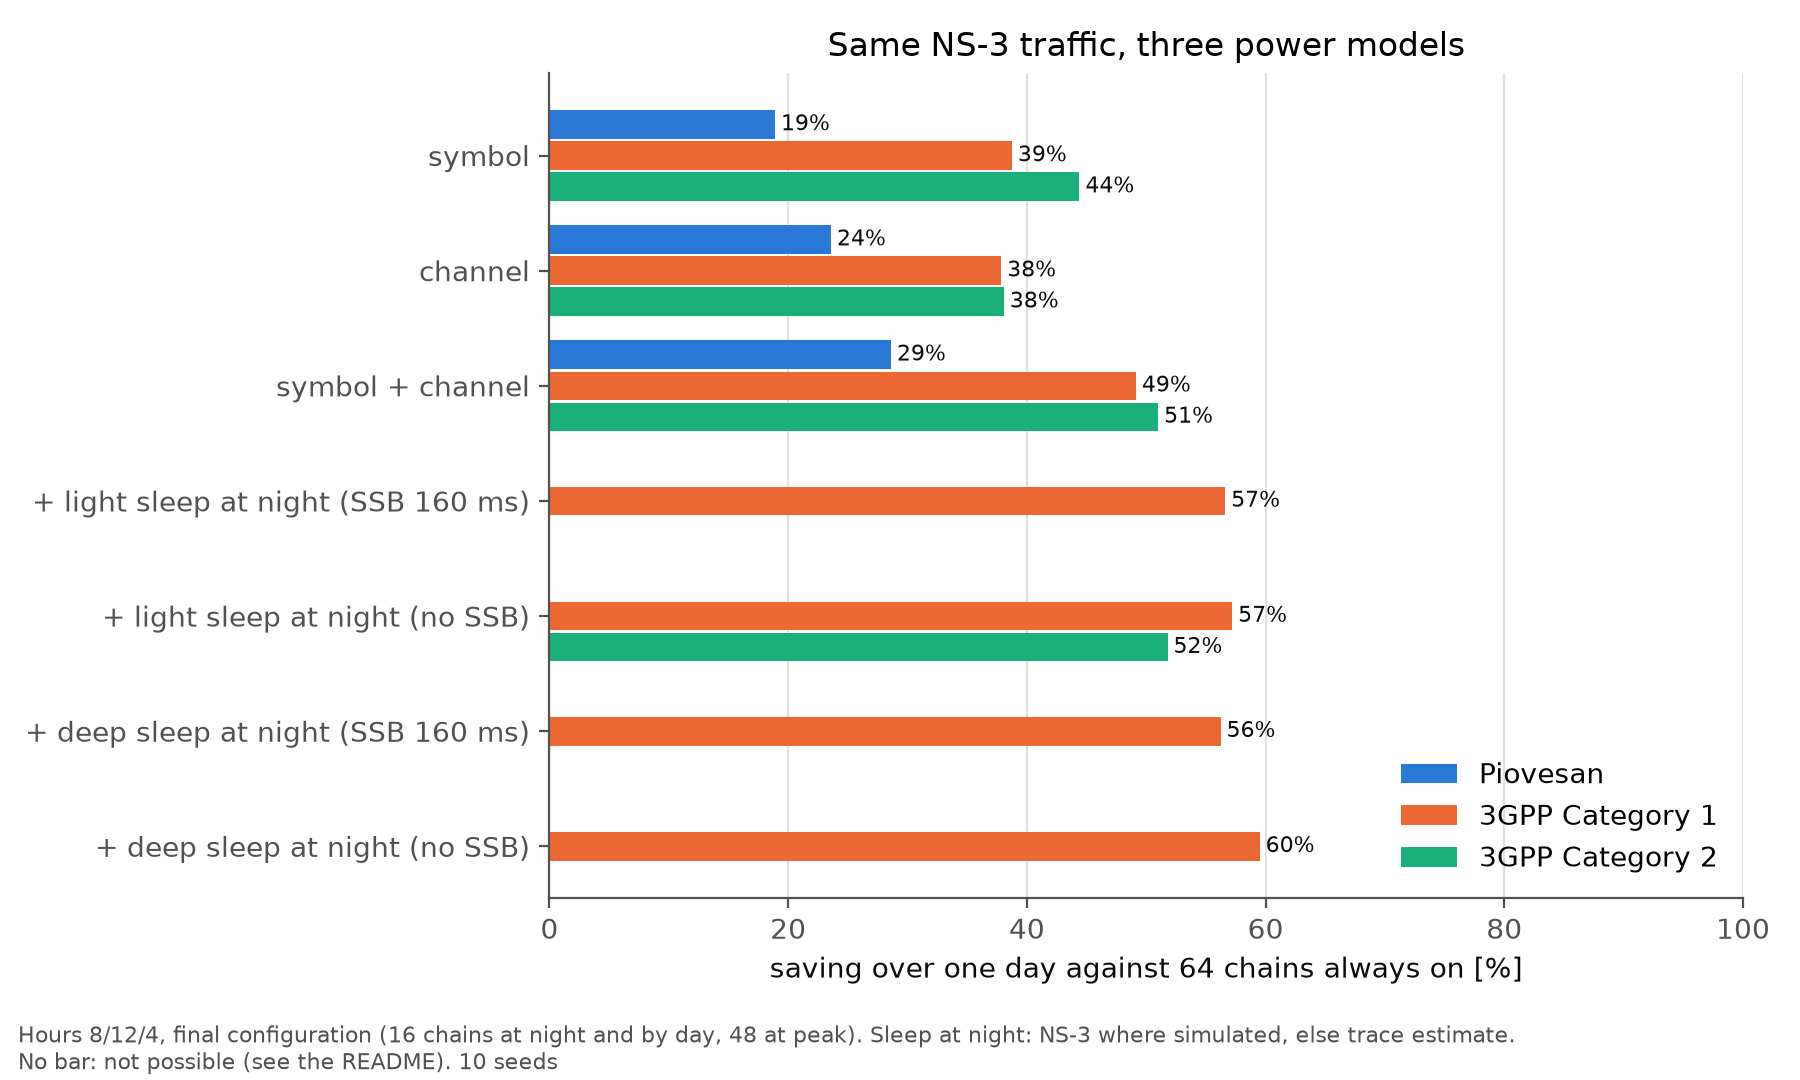
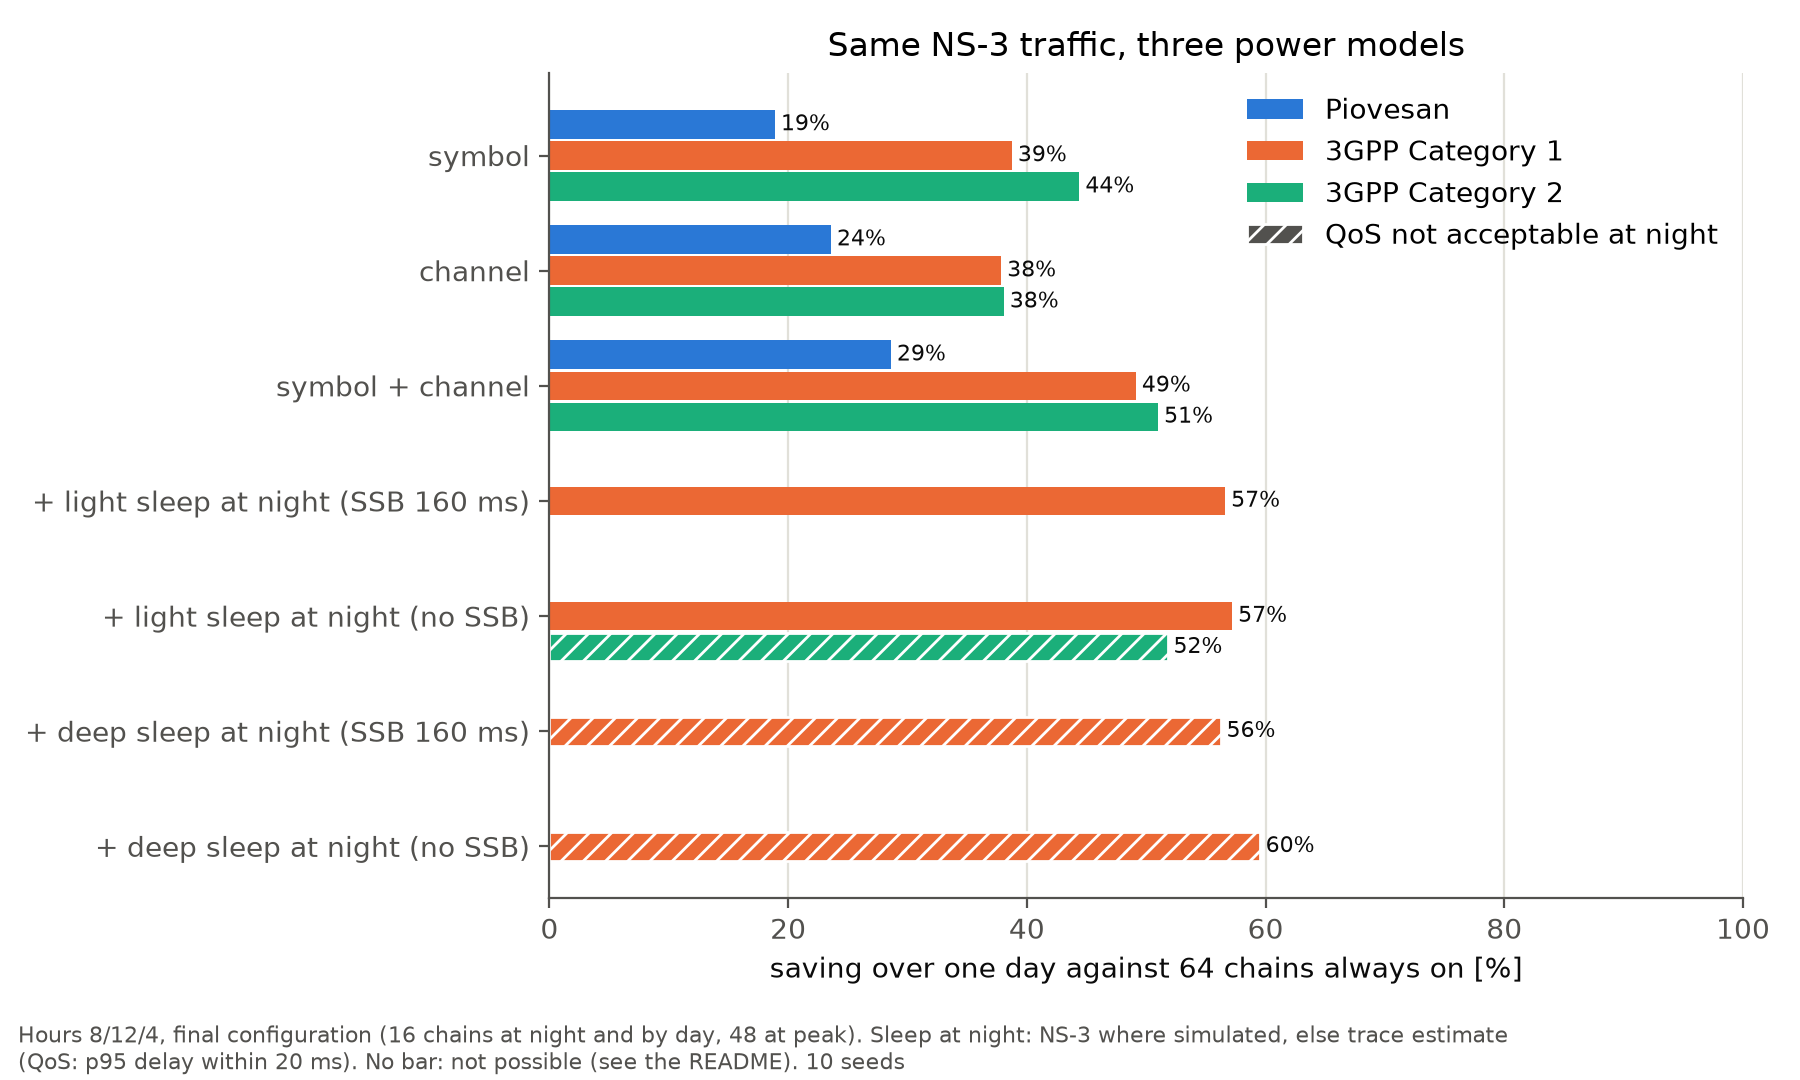
Flag sleeps that break the night QoS, plot the chosen rule and declare the 3GPP scaling
- final_models.png hatches the sleeps whose night QoS fails (deep sleep in Category 1,
  light sleep in Category 2); the README no longer quotes their 60% as a plain saving.
- policy_day figures show the rule the README picks (every 5 min, margin 50%).
- lib/power.py declares sp and eta of the 3GPP downlink scaling (both 1, as before).
- README and STEPS: 32 chains carry more than 24 when the neighbours are twice as loaded.
- run_campaign.sh writes to bs-results-main by default instead of the old bs-results-seg.

diff --git a/analysis/studies/final.py b/analysis/studies/final.py
@@ -23,7 +23,7 @@ import pandas as pd
 from lib import campaign, ns3data, paths, power
 from lib.style import AQUA, BLUE, INK, MUTED, ORANGE, save
 from studies.daily import half_ci
-from studies.threegpp import ns3_sleeps, sleep_level, slot_power, symbol_table, trace_sleeps
+from studies.threegpp import night_sleep_qos_ok, ns3_sleeps, sleep_level, slot_power, symbol_table, trace_sleeps
 
 RAW = paths.RAW / "bs-results-indep"
 FACTORS = {"x0.5": 0.5, "x1": 1, "x2": 2}          # folder -> neighbour load / load of cell 0
@@ -200,7 +200,8 @@ def day_3gpp():
     """3GPP Category 1 and 2, one day on the final configuration: symbol, symbol + channel (48 chains at peak) and
     light or deep sleep at night on top (NS-3 where simulated, else the trace estimate, from studies.threegpp: their
     nights have neighbours at 64 chains, which at 1 Mbit/s makes no difference; the returned check is the largest
-    difference between the earlier and the final night with 16 chains)."""
+    difference between the earlier and the final night with 16 chains). qos_ok: the settings without sleep are those
+    with acceptable QoS at every level; a sleep is judged on the night by studies.threegpp.night_sleep_qos_ok."""
     traced, simulated, earlier = trace_sleeps(), ns3_sleeps(), symbol_table()
     rows = []
     for cat in (1, 2):
@@ -212,14 +213,17 @@ def day_3gpp():
                     "channel": {"night": tgpp_level("night", 16, False, cat), "day": tgpp_level("day", 16, False, cat),
                                 "peak": tgpp_level("peak", 48, False, cat)},
                     "symbol + channel": best}
+        qos_ok = dict.fromkeys(policies, True)
         for name, ssb in (("+ light sleep at night", "SSB 160 ms"), ("+ light sleep at night", "no SSB"),
                           ("+ deep sleep at night", "SSB 160 ms"), ("+ deep sleep at night", "no SSB")):
-            night = sleep_level(cat, "night", name.split()[1], ssb, traced, simulated)
+            state = name.split()[1]                             # "light" or "deep"
+            night = sleep_level(cat, "night", state, ssb, traced, simulated)
             if len(night):
                 policies[f"{name} ({ssb})"] = dict(best, night=night)
+                qos_ok[f"{name} ({ssb})"] = night_sleep_qos_ok(cat, state, ssb, traced, simulated)
         for name, levels in policies.items():
             saving = 100 * (1 - sum(h * levels[level] for level, h in HOURS.items()) / always_on)
-            rows.append(dict(cat=cat, policy=name, saving=saving.mean(), ci=half_ci(saving)))
+            rows.append(dict(cat=cat, policy=name, saving=saving.mean(), ci=half_ci(saving), qos_ok=qos_ok[name]))
     night_earlier = earlier[(earlier.cat == 1) & (earlier.profile == "night") & (earlier.chains == 16)
                             & earlier.symbol].sort_values("seed").rel.to_numpy()
     check = np.abs(night_earlier - tgpp_level("night", 16, True, 1)).max()
@@ -296,10 +300,11 @@ def day_models(days_3gpp):
         energy = sum(h * piovesan_watts(level, CHAINS_BY_LEVEL[level] if "channel" in policy else 64, "symbol" in policy)
                      for level, h in HOURS.items())
         saving = 100 * (1 - energy / always_on)
-        rows.append(dict(model="Piovesan", policy=policy, saving=saving.mean(), ci=half_ci(saving)))
+        rows.append(dict(model="Piovesan", policy=policy, saving=saving.mean(), ci=half_ci(saving), qos_ok=True))
     names = {1: "3GPP Category 1", 2: "3GPP Category 2"}
     for _, row in days_3gpp[days_3gpp.policy != "always on"].iterrows():
-        rows.append(dict(model=names[row["cat"]], policy=row["policy"], saving=row["saving"], ci=row["ci"]))
+        rows.append(dict(model=names[row["cat"]], policy=row["policy"], saving=row["saving"], ci=row["ci"],
+                         qos_ok=row["qos_ok"]))
     return pd.DataFrame(rows)
 
 
@@ -307,16 +312,22 @@ MODEL_STYLE = {"Piovesan": BLUE, "3GPP Category 1": ORANGE, "3GPP Category 2": A
 
 
 def plot_models(models):
-    """Saving of one day, Piovesan and 3GPP, one group of bars per policy; no bar: the model cannot express it."""
+    """Saving of one day, Piovesan and 3GPP, one group of bars per policy; no bar: the model cannot express it;
+    hatched: the night QoS is not acceptable."""
     policies = list(dict.fromkeys(models.policy))
     order = ["symbol", "channel", "symbol + channel"] + [p for p in policies if p.startswith("+")]
     fig, ax = plt.subplots(figsize=(9, 5.4))
     y = np.arange(len(order))
     width = .27
     for k, (model, color) in enumerate(MODEL_STYLE.items()):
-        values = [models[(models.model == model) & (models.policy == p)].saving.mean() for p in order]
+        rows = [models[(models.model == model) & (models.policy == p)] for p in order]
+        values = [row.saving.mean() for row in rows]
         offset = y + (k - 1) * width
-        ax.barh(offset, values, width * .92, color=color, label=model)
+        bars = ax.barh(offset, values, width * .92, color=color, label=model)
+        for bar, row in zip(bars, rows):
+            if len(row) and not row.qos_ok.all():
+                bar.set_hatch("///")
+                bar.set_edgecolor("white")
         for yi, v in zip(offset, values):
             if np.isfinite(v):
                 ax.text(v + .5, yi, f"{v:.0f}%", va="center", fontsize=8, color=INK)
@@ -324,10 +335,13 @@ def plot_models(models):
            title="Same NS-3 traffic, three power models")
     ax.invert_yaxis()
     ax.grid(axis="y", visible=False)
-    ax.legend(frameon=False, loc="lower right")
+    handles, labels = ax.get_legend_handles_labels()
+    handles.append(plt.Rectangle((0, 0), 1, 1, facecolor=MUTED, hatch="///", edgecolor="white"))
+    labels.append("QoS not acceptable at night")
+    ax.legend(handles, labels, frameon=False, loc="upper right")
     save(fig, "final_models.png", "Hours 8/12/4, final configuration (16 chains at night and by day, 48 at peak). "
-                                  "Sleep at night: NS-3 where simulated, else trace estimate.\n"
-                                  "No bar: not possible (see the README). 10 seeds")
+                                  "Sleep at night: NS-3 where simulated, else trace estimate\n"
+                                  "(QoS: p95 delay within 20 ms). No bar: not possible (see the README). 10 seeds")
 
 
 def plot_day(day, days_3gpp):

diff --git a/analysis/lib/power.py b/analysis/lib/power.py
@@ -95,17 +95,24 @@ TGPP = {1: dict(deep=1, light=25, micro=55, dl=280, ul=110, t_light=6, t_deep=50
 TGPP_A = 0.4          # share of the dynamic downlink power that scales with the active RUs
 TGPP_RB_REF = 273     # resource blocks of the 100 MHz reference carrier at 30 kHz
 TGPP_EXTRA_CC = 0.7   # each additional contiguous carrier costs 0.7 of the first
+# ASSUMPTIONS of the downlink scaling (clause 5.1): sf = resource blocks in use / 273 (per symbol), and
+TGPP_SP = 1.0         # sp: power spectral density per RU against the reference. 1 = as Set 1; scaled to our AAU
+                      # (104.9 W over 60 MHz against 55 dBm over 100 MHz, 64 RUs in both) it would be about 0.55.
+TGPP_ETA = 1.0        # eta: PA efficiency factor. The report lets each study use one value (eta = 1 for any sf, sp)
+                      # or two (eta = 0.76 when sf * sp < 0.5, else 1). With 30 MHz carriers sf * sp is always below
+                      # 0.5, so the two-value choice would raise the load-dependent PA power by 1 / 0.76.
 
 
 def tgpp_dl_symbol(rb, active_ru=1.0, cat=1):
     """Power of one downlink symbol of one carrier with rb resource blocks in use.
 
-    P = micro + active_ru * A * (dl - micro) + rb / 273 * (1 - A) * (dl - micro):
+    P = micro + active_ru * A * (dl - micro) + rb / 273 * sp / eta * (1 - A) * (dl - micro):
     part of the power grows with the active radio units, part with the resource blocks in use.
     """
     p = TGPP[cat]
     dyn = p["dl"] - p["micro"]
-    return p["micro"] + active_ru * TGPP_A * dyn + np.asarray(rb, float) / TGPP_RB_REF * (1 - TGPP_A) * dyn
+    load = np.asarray(rb, float) / TGPP_RB_REF * TGPP_SP / TGPP_ETA      # sf * sp / eta
+    return p["micro"] + active_ru * TGPP_A * dyn + load * (1 - TGPP_A) * dyn
 
 
 def tgpp_ul_symbol(active_ru=1.0, cat=1):

diff --git a/analysis/studies/threegpp.py b/analysis/studies/threegpp.py
@@ -164,6 +164,24 @@ def sleep_level(cat, profile, state, ssb, traced, simulated):
     return np.array([])
 
 
+def night_sleep_qos_ok(cat, state, ssb, traced, simulated):
+    """Whether the night QoS holds with this sleep, from the same source as sleep_level. NS-3: the criterion of
+    lib.campaign against the night without sleep (burst users over the limit, losses). Traces, which have no users:
+    the p95 delay of the served work within the limit (mean over seeds). None if neither source has it."""
+    if len(simulated):
+        rows = simulated[(simulated.cat == cat) & (simulated.profile == "night") & (simulated.state == state)
+                         & (simulated.ssb == ssb)]
+        if len(rows) == campaign.SEEDS:
+            burst = campaign.burst
+            no_sleep = burst[(burst.profile == "night") & (burst.chains == CASES["night"])]
+            extra = rows.over.sum() / rows.users.sum() - (no_sleep.p95_ms > campaign.LIMIT_MS).mean()
+            return bool(extra <= campaign.MAX_EXTRA_USERS and rows.loss.mean() < 100 * campaign.MAX_LOSS)
+    rows = traced[(traced.cat == cat) & (traced.profile == "night") & (traced.state == state) & (traced.ssb == ssb)]
+    if len(rows) == campaign.SEEDS:
+        return bool(rows.p95.mean() <= campaign.LIMIT_MS)
+    return None
+
+
 def daily_savings(table, traced, simulated):
     """Saving of one day (8/12/4 h) per category and policy, against 64 chains always on, mean and 95% CI."""
     def level(cat, profile, chains, symbol):

diff --git a/analysis/studies/policy.py b/analysis/studies/policy.py
@@ -221,7 +221,7 @@ def plot_day(load, chosen, limits):
         ax_load.text(0.2, limit + 1.5, f"{names} chains: QoS acceptable up to {limit} Mbit/s", fontsize=8, color=INK)
     ax_load.set(ylabel="offered load [Mbit/s]", ylim=(0, MAX_MBPS + 5), title="A day and the chains a reactive policy picks")
     ax_load.legend(frameon=False, loc="lower left", bbox_to_anchor=(0, 0.05), fontsize=8)
-    name = "reactive 15 min, margin 25%"
+    name = "reactive 5 min, margin 50%"    # the rule chosen in the README
     ax_chains.step(hour, chosen[name][2][0], where="post", color=ORANGE, lw=1.5, label=name)
     ax_chains.step(hour, choose(load[0], limits), where="post", color=MUTED, lw=1, ls="--", label="oracle")
     ax_chains.set(xlabel="hour of the day", ylabel="active chains", yticks=CHAINS, xlim=(0, 24), xticks=range(0, 25, 3))

diff --git a/README.md b/README.md
@@ -78,8 +78,9 @@ losses stay under 1%.
 ([steps 2](docs/STEPS.md#2-main-campaign-power-and-qos) and [13](docs/STEPS.md#13-final-study-every-cell-picks-its-own-chains)).
 With 16 of 64 chains and symbol shutdown the power falls by about 32% at any load, but the QoS holds only up to
 50 Mbit/s when the neighbours carry the same load (20 with neighbours twice as loaded, 60 with half). 48 chains
-carry up to 100 Mbit/s, and above 120 the cell saturates even with 64. 32 chains are never worth it: they carry
-the same load as 24.
+carry up to 100 Mbit/s, and above 120 the cell saturates even with 64. 32 chains are rarely worth it: with
+neighbours at the same or half the load they carry the same as 24, and only with neighbours twice as loaded do they
+carry more (40 Mbit/s against 20).
 
 ![Highest load each number of chains carries with acceptable QoS](analysis/figures/final_capacity.png)
 
@@ -115,7 +116,9 @@ one-hour ramps and a random fluctuation). Script `studies.policy --final`.*
 
 **The power model matters as much as the technique** ([step 10](docs/STEPS.md#10-the-3gpp-power-model)). On the same
 traffic and with the same choices, symbol and channel shutdown save 29% with Piovesan and 49-51% with the 3GPP
-TR 38.864 model, and up to 60% with sleep at night. Symbol shutdown alone saves 19% with Piovesan and 39-44% with
+TR 38.864 model, and 57% with light sleep at night in Category 1, at no QoS cost. Deep sleep at night saves about as
+much (56%, 60% with no SSB at all) but pushes the night delays over 20 ms, as does light sleep in Category 2 (hatched
+bars). Symbol shutdown alone saves 19% with Piovesan and 39-44% with
 3GPP: in 3GPP an empty symbol costs 20% of full load, in Piovesan 47%. Fewer chains alone save 24% with Piovesan and
 38% with 3GPP. The 3GPP report does not say which of its two categories of values applies to real equipment. Two
 older models, EARTH and Björnson, can each express only one of the two techniques; they are compared in
@@ -124,8 +127,10 @@ older models, EARTH and Björnson, can each express only one of the two techniqu
 ![One day with Piovesan and the 3GPP model](analysis/figures/final_models.png)
 
 *Data: the same runs as the day above (final campaign at night and by day, 48 chains at peak), through each power
-model. Light and deep sleep at night: simulated in NS-3 for 3GPP Category 1 (`bs-results-wake3gpp`, neighbours at
-64 chains, which at 1 Mbit/s makes no difference), estimated on the traces for Category 2. Script `studies.final`.*
+model. Light and deep sleep at night: simulated in NS-3 for 3GPP Category 1 with an SSB every 160 ms
+(`bs-results-wake3gpp`, neighbours at 64 chains, which at 1 Mbit/s makes no difference), estimated on the traces
+without SSB and for Category 2. Hatched: the night QoS fails (NS-3: the criterion above; traces: p95 delay over
+20 ms). Script `studies.final`.*
 
 *Missing bars cannot be computed. Piovesan has no light or deep sleep state, only the sleep with a 0.5 ms wake-up of
 the day figure above. Category 2 of the 3GPP report takes 640 ms to go into light sleep and back, and 10 s for deep
@@ -158,7 +163,9 @@ recomputes steps 2, 3, 10 and 11 with every site deciding for itself.
 - Each run simulates 10 s of a traffic level, not hours. The traffic levels, the 8/12/4 h day, the 20 ms
   delay limit and the QoS criterion, and the video segments are assumptions.
 - With Piovesan, sleep times come from a survey and sleep powers from Piovesan. The 3GPP model gives both
-  from one source but leaves open which of its two categories applies.
+  from one source but leaves open which of its two categories applies. We use its scaling with the PA efficiency
+  factor η = 1 and the reference power density per chain; the report also allows η = 0.76 for narrow carriers like
+  ours, and our radiated power is about 0.55 of the reference density ([step 10](docs/STEPS.md#10-the-3gpp-power-model)).
 - The QoS criterion is relative to 64 chains, and from about 90 Mbit/s 64 chains degrade too (11% of the burst
   users over 20 ms at 90 Mbit/s, 22% at 120). "Acceptable" means "not much worse than 64 chains".
 - The final study uses burst users only. Its peak hours keep the earlier peak with video, with neighbours at 64

diff --git a/docs/STEPS.md b/docs/STEPS.md
@@ -143,15 +143,19 @@ which equipment they stand for:
 While transmitting, the power of a symbol is
 
 $$
-P_{\mathrm{DL}} = P_{\mathrm{micro}} + s_a\,A\,(P_{\mathrm{DL,max}} - P_{\mathrm{micro}}) + s_f\,(1-A)\,(P_{\mathrm{DL,max}} - P_{\mathrm{micro}}),
+P_{\mathrm{DL}} = P_{\mathrm{micro}} + s_a\,A\,(P_{\mathrm{DL,max}} - P_{\mathrm{micro}}) + \frac{s_f\,s_p}{\eta}\,(1-A)\,(P_{\mathrm{DL,max}} - P_{\mathrm{micro}}),
 \qquad A = 0.4
 $$
 
-with $s_a$ the share of active chains and $s_f$ the share of the 100 MHz band in use. A second contiguous
+with $s_a$ the share of active chains, $s_f$ the share of the 100 MHz band in use, $s_p$ the power spectral
+density per chain against the reference and $\eta$ a factor for the PA efficiency. A second contiguous
 carrier costs 0.7 times the first, and each light or deep sleep adds a transition energy. `studies.threegpp`
 builds this power symbol by symbol from the same NS-3 traces. Empty symbols drop to micro sleep with symbol
 shutdown. Assumptions: the control symbol uses the whole carrier, UL symbols are always receiving, and
-the 0.7 factor also applies to sleep states.
+the 0.7 factor also applies to sleep states. $s_p = 1$, the reference density; scaled to our radiated power
+(104.9 W over 60 MHz, against 55 dBm over 100 MHz) it would be about 0.55. $\eta = 1$, the single value the
+report allows for any $s_f$ and $s_p$; it also allows 0.76 when $s_f s_p < 0.5$, which with our 30 MHz carriers
+is always the case. Both are declared in `lib/power.py` (`TGPP_SP`, `TGPP_ETA`).
 
 ![One day with Piovesan and the 3GPP model](../analysis/figures/threegpp.png)
 
@@ -262,7 +266,8 @@ eight loads were simulated, so those limits are lower bounds.
   instead of 40, and 24 or 32 up to 60 instead of 50: lightly loaded neighbours use fewer chains and interfere less.
 - **The neighbours' load matters as much as one's own.** With neighbours twice as loaded, 16 chains carry only
   20 Mbit/s; with neighbours half as loaded, 48 chains carry 150.
-- **32 chains are never worth it**: they carry the same load as 24 for 2-3 points less saving.
+- **32 chains are rarely worth it**: with neighbours at the same or half the load they carry the same load as 24
+  for 2-3 points less saving; only with neighbours twice as loaded do they carry more (40 Mbit/s against 20).
 - **Above 120 Mbit/s the cell is saturated**: even 64 chains lose over 1% of the packets.
 - **More seeds settle the 48-chain limit.** With 20 seeds the 95% CI of the extra users over 20 ms at 48 chains,
   80-110 Mbit/s, is 2.7-4.6 points: +3.0 ± 3.4 at 100 Mbit/s (acceptable), +8.5 at 110 (not). The 16-chain limit at
